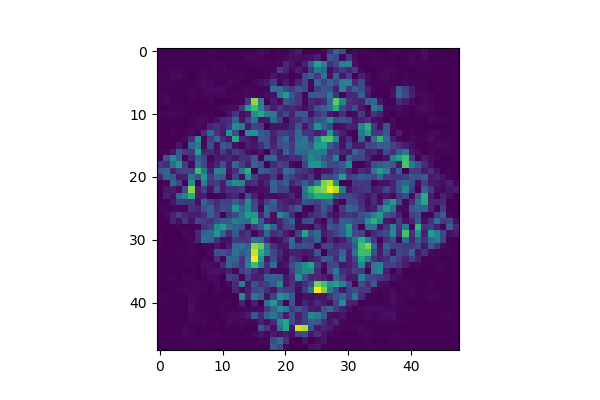
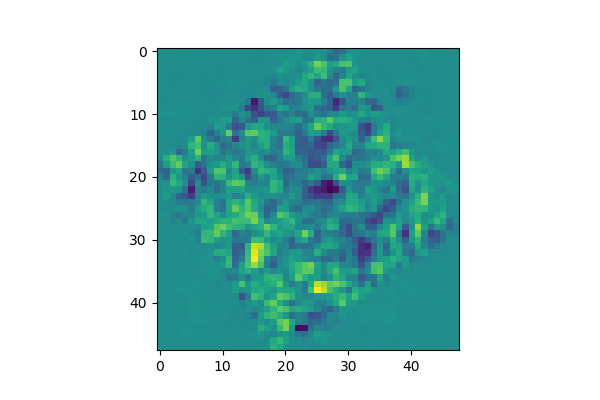
Removed absolute value from absorber - nonAbsorber

diff --git a/CombineImageStacks.py b/CombineImageStacks.py
@@ -363,7 +363,7 @@ with Gaussian blur applied.
 def reduceMeanImageStack(imageAbsorb, imageNonAbsorb):
     absorber = fits.getdata(imageAbsorb)
     nonAbsorber = fits.getdata(imageNonAbsorb)
-    reduced = abs(absorber - nonAbsorber)
+    reduced = absorber - nonAbsorber
     fits.writeto('Reduced_Mean.fits', reduced, overwrite=True)
     
     plt.clf()
@@ -397,7 +397,7 @@ with Gaussian blur applied.
 def reduceMedianImageStack(imageAbsorb, imageNonAbsorb):
     absorber = fits.getdata(imageAbsorb)
     nonAbsorber = fits.getdata(imageNonAbsorb)
-    reduced = abs(absorber - nonAbsorber)
+    reduced = absorber - nonAbsorber
     fits.writeto('Reduced_Median.fits', reduced, overwrite=True)
     
     plt.clf()
@@ -431,7 +431,7 @@ with Gaussian blur applied.
 def reduceStandardImageStack(imageAbsorb, imageNonAbsorb):
     absorber = fits.getdata(imageAbsorb)
     nonAbsorber = fits.getdata(imageNonAbsorb)
-    reduced = abs(absorber - nonAbsorber)
+    reduced = absorber - nonAbsorber
     fits.writeto('Reduced_Standard.fits', reduced, overwrite=True)
     
     plt.clf()
